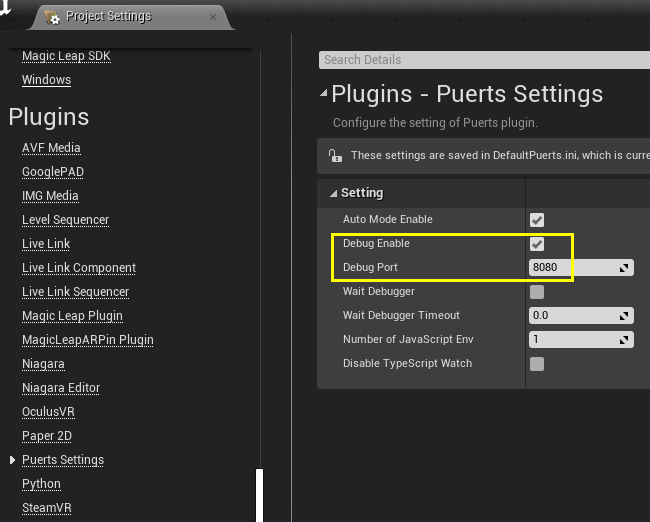
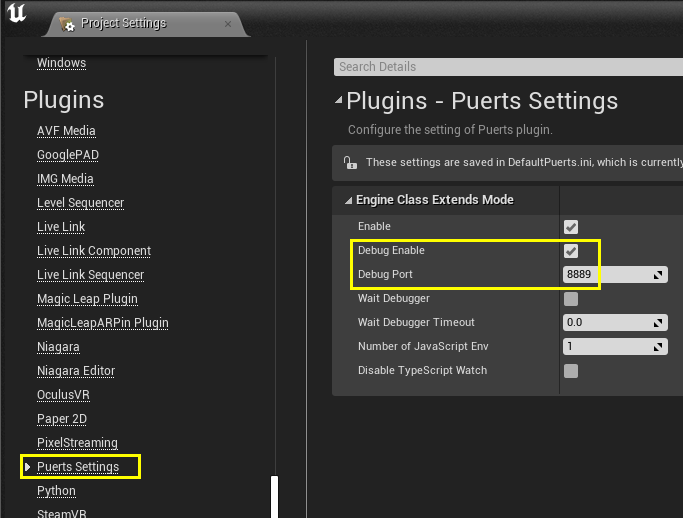
update README.md

Changed region(s): [[0.4615, 0.0927, 1.0, 0.7722], [0.0, 0.0, 0.3692, 1.0], [0.3692, 0.8958, 0.4308, 0.9266]]

diff --git a/README.md b/README.md
@@ -45,7 +45,7 @@ Then `PuerTS` would auto compile this TypeScript source and auto generate Unreal
 
 # Debug in IntelliJ IDEA
 
-+ UE4Editor -> Edit -> Project Settings -> Plugins -> Puerts Settings -> Enable `Debug Mode`, and set `Debug Port` as an unused occupied port.  
++ UE4Editor -> Edit -> Project Settings -> Plugins -> Puerts Settings -> Enable `Debug Mode`, and set `Debug Port` as an unoccupied port (`8889` recommended).  
 ![screenshoots06](./docs/screenshoots/screenshoot_6.png)
 + IntelliJ IDEA -> Run -> Edit Configurations  
 ![screenshoots07](./docs/screenshoots/screenshoot_7.png)
